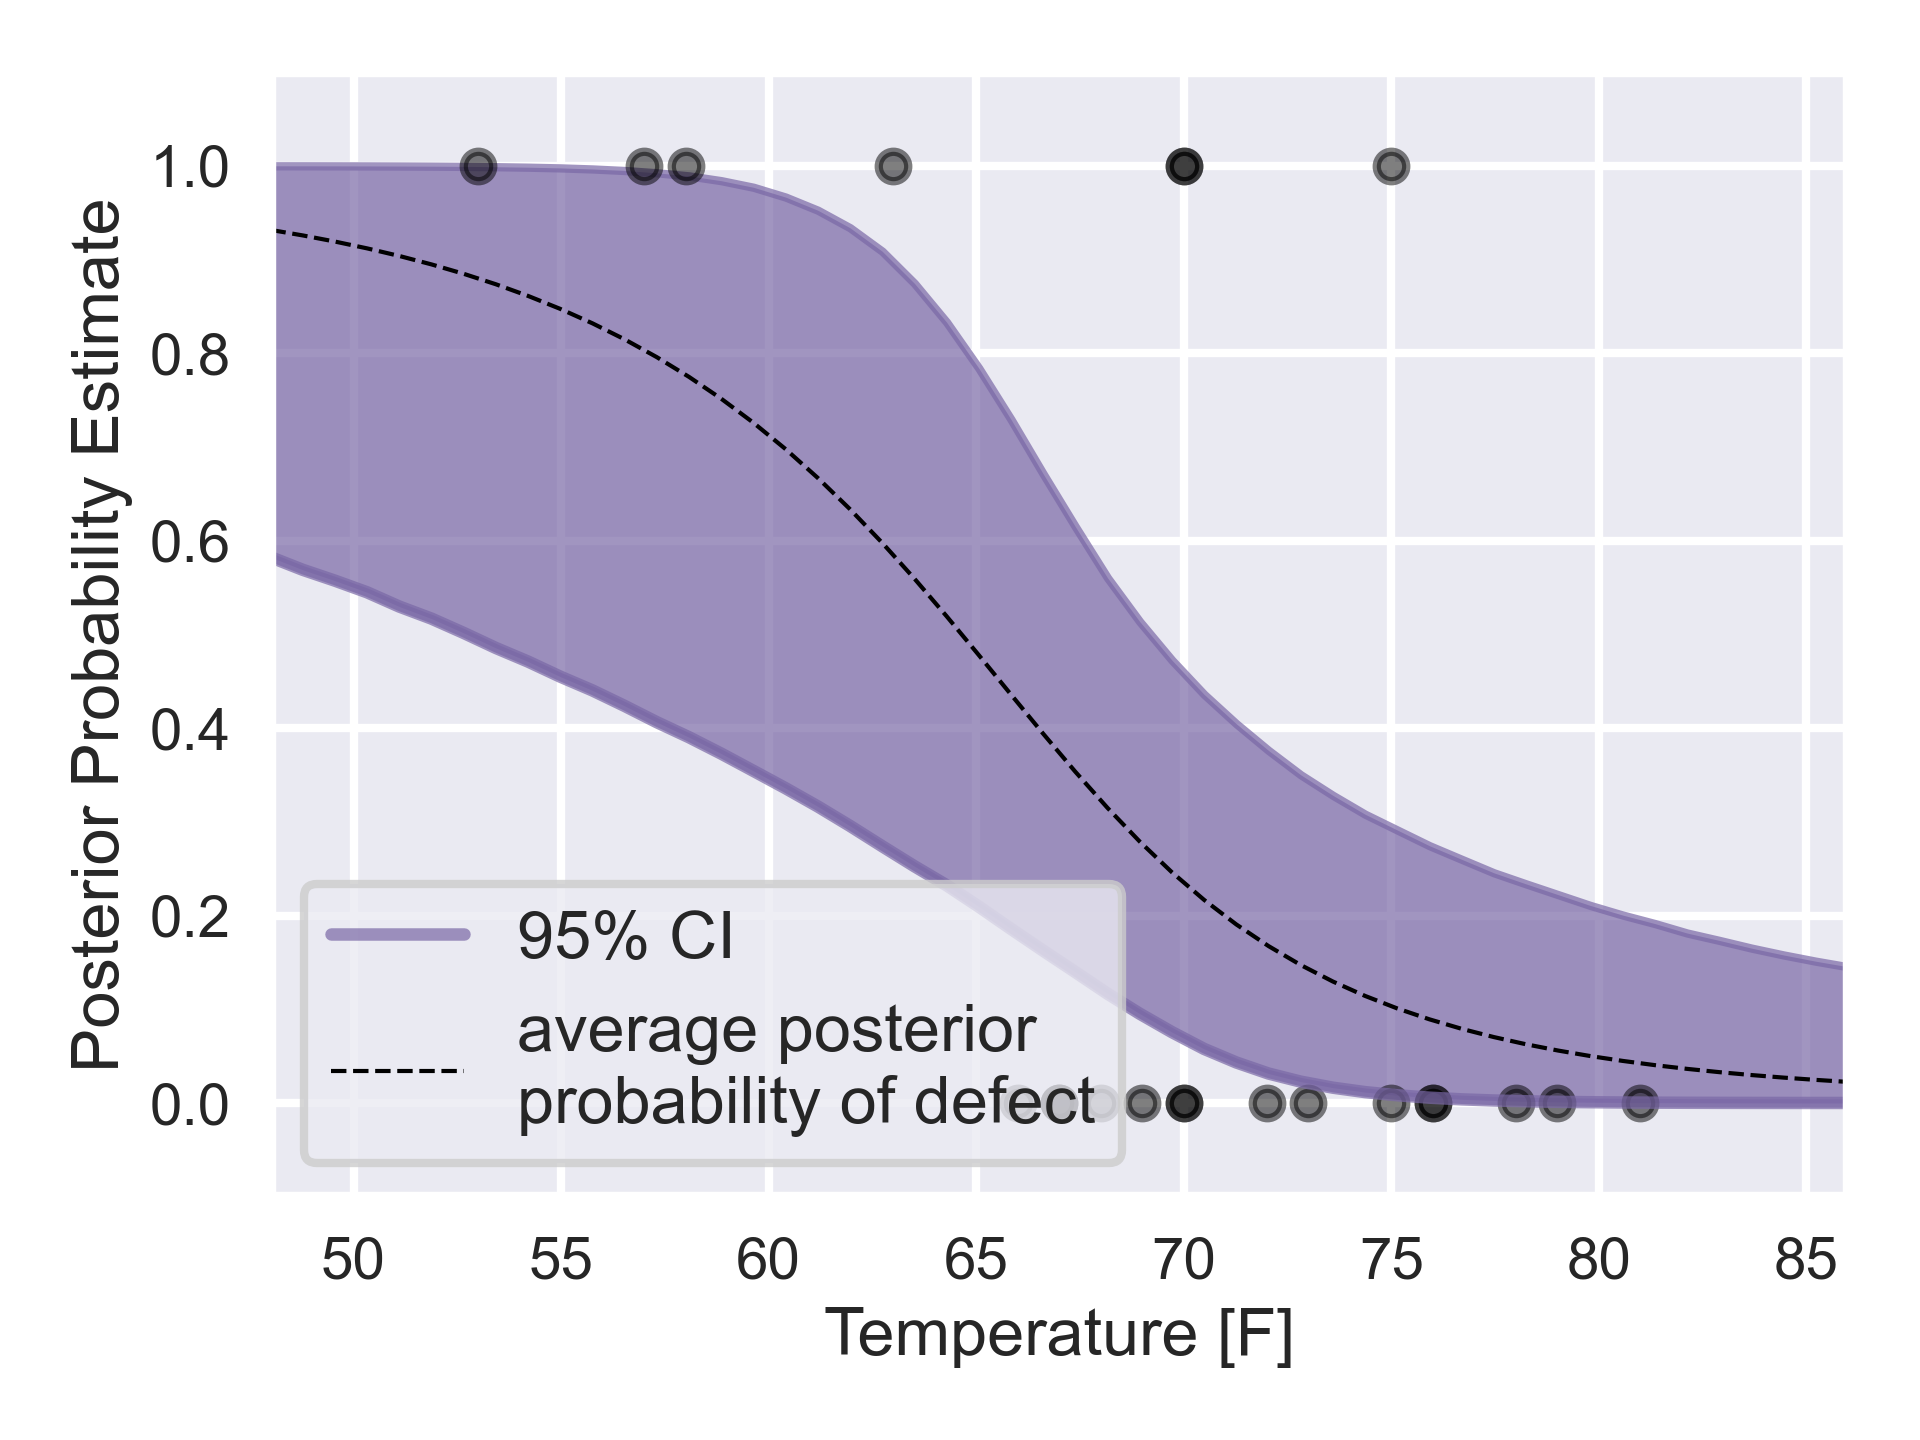
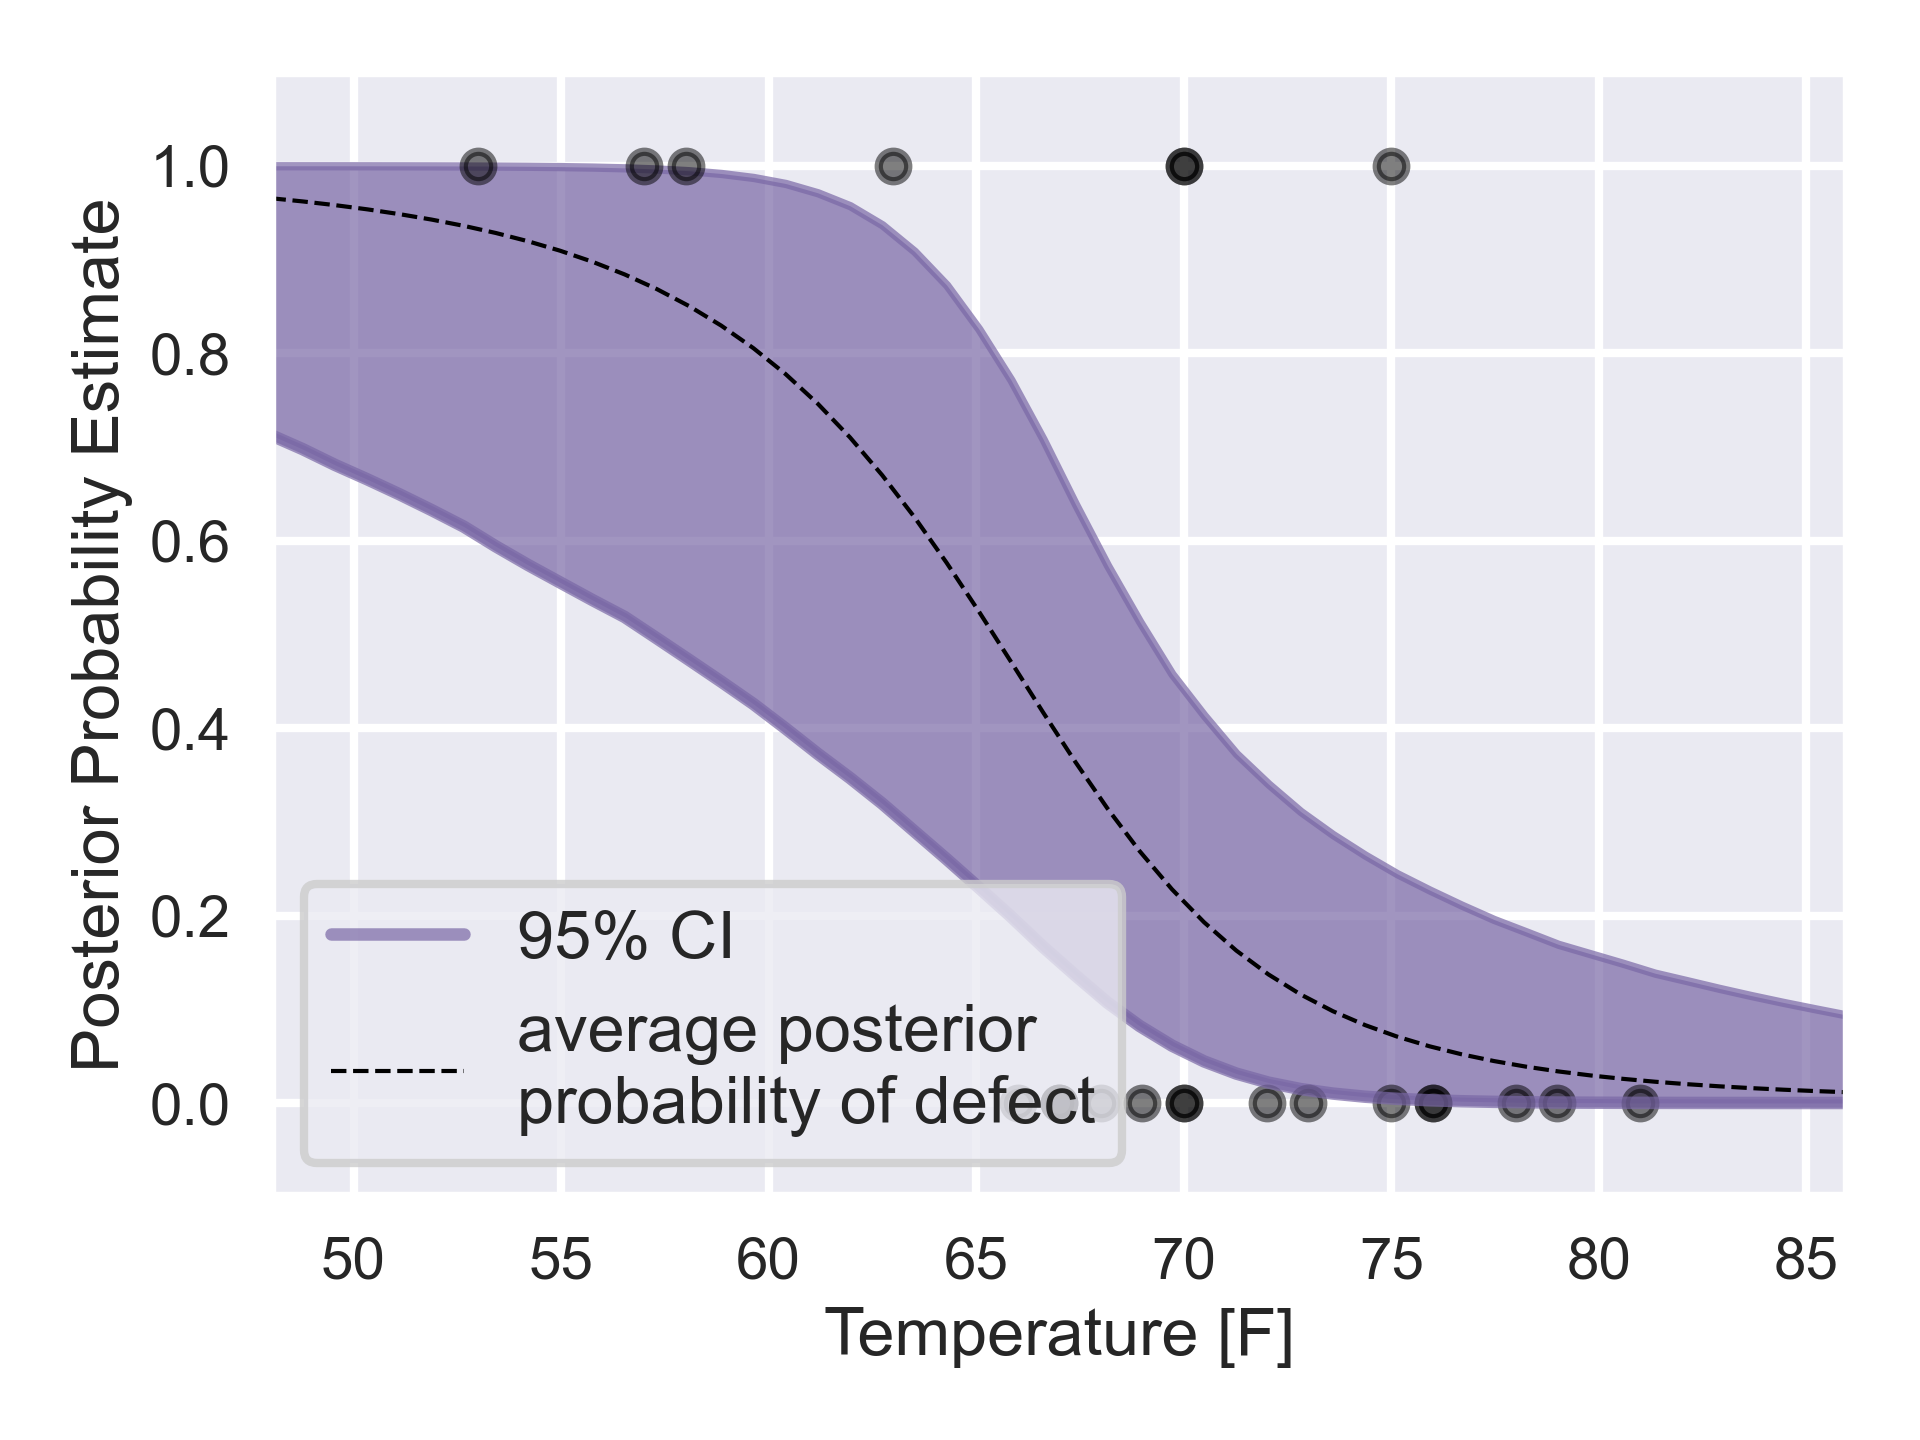
Python script for bayesian simulations with PyMC4 added

diff --git a/src/code_quantlets/14_Bayesian/bayesianStats/ISP_bayesianStats_PyMC4.py b/src/code_quantlets/14_Bayesian/bayesianStats/ISP_bayesianStats_PyMC4.py
@@ -7,7 +7,7 @@ before 1986.
 
 Important note
 --------------
-This module requires PyMC3. To install it you probably have to use Anaconda.
+This module requires PyMC4. To install it you probably have to use Anaconda.
 With `conda', be sure to ALWAYS use
 `conda <command> -c conda-forge <parameters>`
 to install the virtual environment, and the desired packages.
@@ -157,10 +157,13 @@ def mcmc_simulations(temperature: np.ndarray, failures: np.ndarray) -> Tuple:
     fig, axs = plt.subplots(2,1)
     az.plot_posterior(trace, var_names='alpha', ax=axs[0])
     az.plot_posterior(trace, var_names='beta', ax=axs[1])
-    plt.show()
+
+    outFile = 'Challenger_Parameters.png'
+    showData(outFile)
 
     # Get the sampled variable traces for alpha and beta:
-    # Note that PyMC4 requires no more "burn-in"
+    # Note that PyMC4 requires no more "burn-in", and that the sampled variables
+    # are stored as 2D Arrays.
     # Also, there may be a more elegant way to get the sampled variables from 
     # the arviz.InferenceData object than the one used here
     alpha, beta = az.extract(trace, var_names=['alpha', 'beta']).to_array()
@@ -168,35 +171,6 @@ def mcmc_simulations(temperature: np.ndarray, failures: np.ndarray) -> Tuple:
     beta_samples = np.atleast_2d(beta).T
 
     return(alpha_samples, beta_samples)
-
-
-def show_sim_results(alpha_samples, beta_samples) -> None:
-    """Show the results of the simulations, and save them to an outFile
-
-    Parameters
-    ----------
-    alpha_samples: posterior distribution of alpha values
-    beta_samples :  posterior distribution of beta values
-    """
-
-    plt.figure(figsize=(12.5, 6))
-    sns.set_style('darkgrid')
-    setFonts(18)
-
-    # Histogram of the samples:
-    plt.subplot(211)
-    plt.title(r"Posterior distributions of the variables $\alpha, \beta$")
-    plt.hist(beta_samples, histtype='stepfilled', bins=35, alpha=0.85,
-             label=r"posterior of $\beta$", color="#7A68A6", density=True)
-    plt.legend()
-
-    plt.subplot(212)
-    plt.hist(alpha_samples, histtype='stepfilled', bins=35, alpha=0.85,
-             label=r"posterior of $\alpha$", color="#A60628", density=True)
-    plt.legend()
-
-    outFile = 'Challenger_Parameters.png'
-    showData(outFile)
 
 
 def calc_prob(alpha_samples: np.ndarray,
@@ -295,7 +269,6 @@ if __name__=='__main__':
     (temperature, failures) = getData()
     show_and_save(temperature, failures)
     (alpha, beta) = mcmc_simulations(temperature, failures)
-    show_sim_results(alpha, beta)
     (linearTemperature, mean_p, p, quantiles) = calc_prob(alpha, beta,
                                                           temperature)
     show_prob(linearTemperature, temperature, failures, mean_p, p, quantiles)
